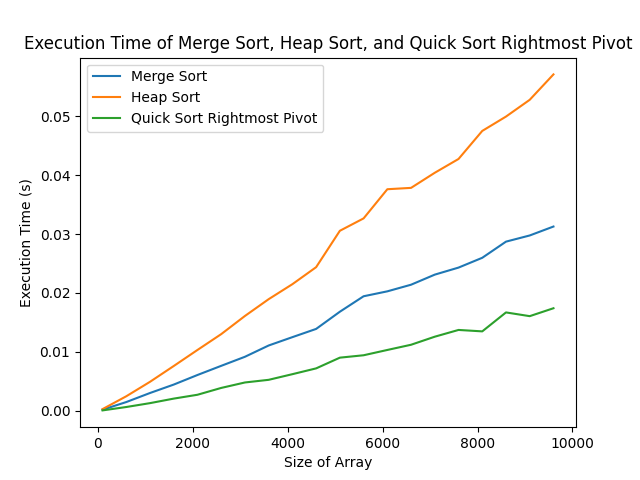
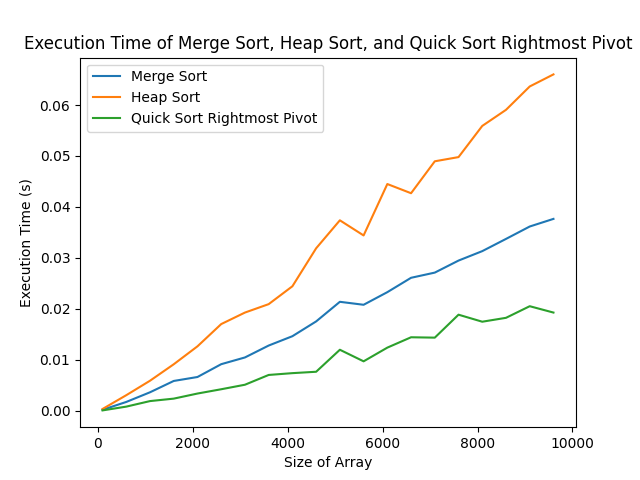
Question 4 fix, prep question 5 implementation again

diff --git a/Homework 2/problem4.py b/Homework 2/problem4.py
@@ -1,21 +1,10 @@
 from merge_sort import merge_sort
 from heap_sort import heap_sort
 from quick_sort_rpivot import partition
+from random_pivot_quicksort import random_pivot_quicksort
 import time
 import matplotlib.pyplot as plt
 
-import random
-
-def randomized_partition(A, p, r):
-    i = random.randint(p, r)
-    A[i], A[r] = A[r], A[i]
-    return partition(A, p, r)
-
-def randomized_quicksort(A, p, r):
-    if p < r:
-        q = randomized_partition(A, p, r)
-        randomized_quicksort(A, p, q - 1)
-        randomized_quicksort(A, q + 1, r)
 
 def test_sorted_arrays(sizes):
     heap_sort_times = []
@@ -43,7 +32,7 @@ def test_sorted_arrays(sizes):
         # Test Quicksort with randomly selected pivot
         quicksort_random_pivot = list(A)
         start_time = time.perf_counter()
-        randomized_quicksort(quicksort_random_pivot, 0, len(quicksort_random_pivot) - 1)
+        random_pivot_quicksort(quicksort_random_pivot, 0, len(quicksort_random_pivot) - 1)
         end_time = time.perf_counter()
         quicksort_random_pivot_times.append(end_time - start_time)
 

diff --git a/Homework 2/problem3.py b/Homework 2/problem3.py
@@ -16,6 +16,8 @@ def main():
 
     for size in tqdm(sizes):
         A = [random.randint(-1000, 1000) for i in range(size)]
+        #A = [i for i in range(size)]
+
         
         merge_sort_time = 0
         heap_sort_time = 0
@@ -56,9 +58,9 @@ def main():
     plt.legend() 
 
     # Save the plot in "Homework 2"
-    #plt.savefig('Homework 2/Quicksort_RPivot_Comparison.png')
+    plt.savefig('Homework 2/Quicksort_RPivot_Comparison_SortedLists.png')
     
-    #plt.show()
+    plt.show()
 
 
     

diff --git a/Homework 2/random_pivot_quicksort.py b/Homework 2/random_pivot_quicksort.py
@@ -1,0 +1,13 @@
+from quick_sort_rpivot import partition
+import random
+
+def randomized_partition(A, p, r):
+    i = random.randint(p, r)
+    A[i], A[r] = A[r], A[i]
+    return partition(A, p, r)
+
+def randomized_quicksort(A, p, r):
+    if p < r:
+        q = randomized_partition(A, p, r)
+        randomized_quicksort(A, p, q - 1)
+        randomized_quicksort(A, q + 1, r)
